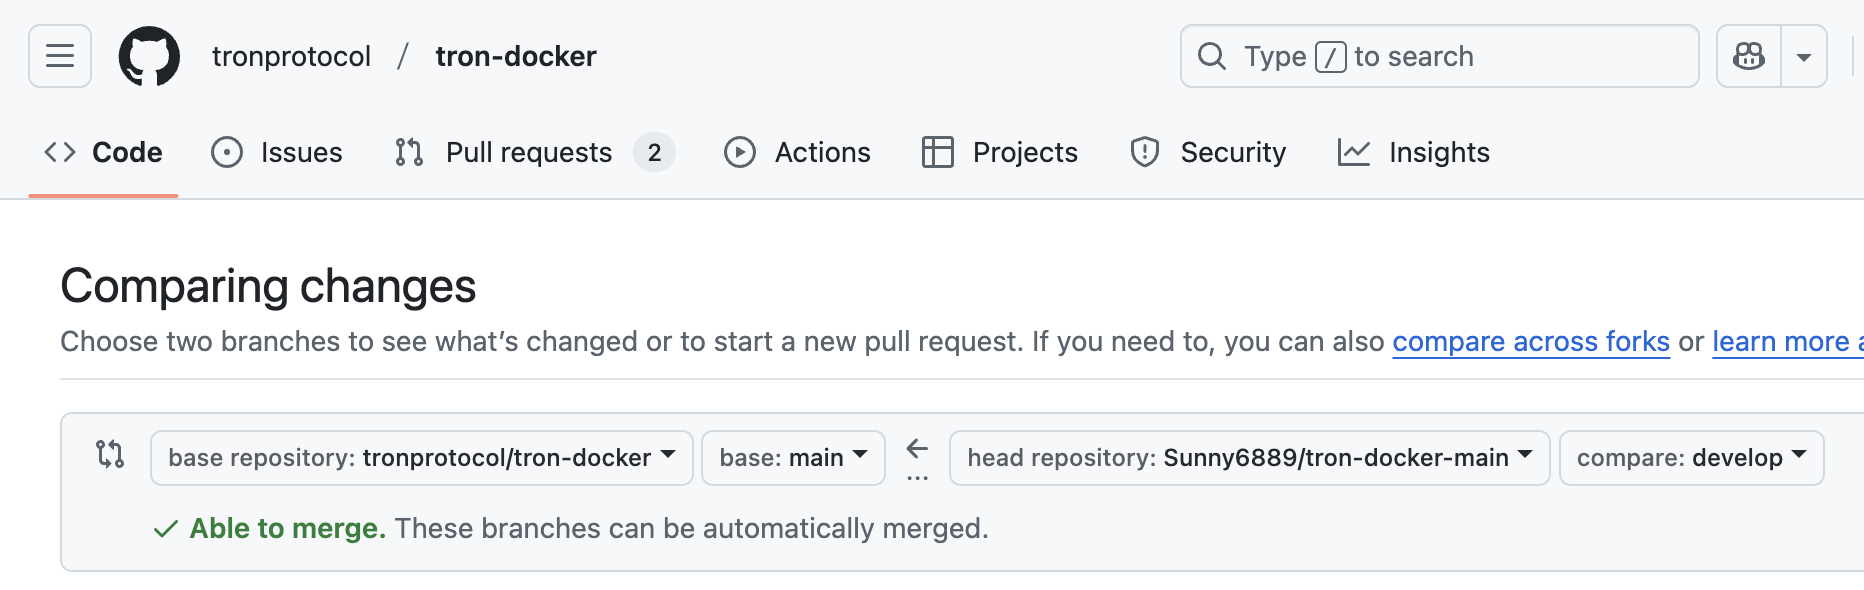
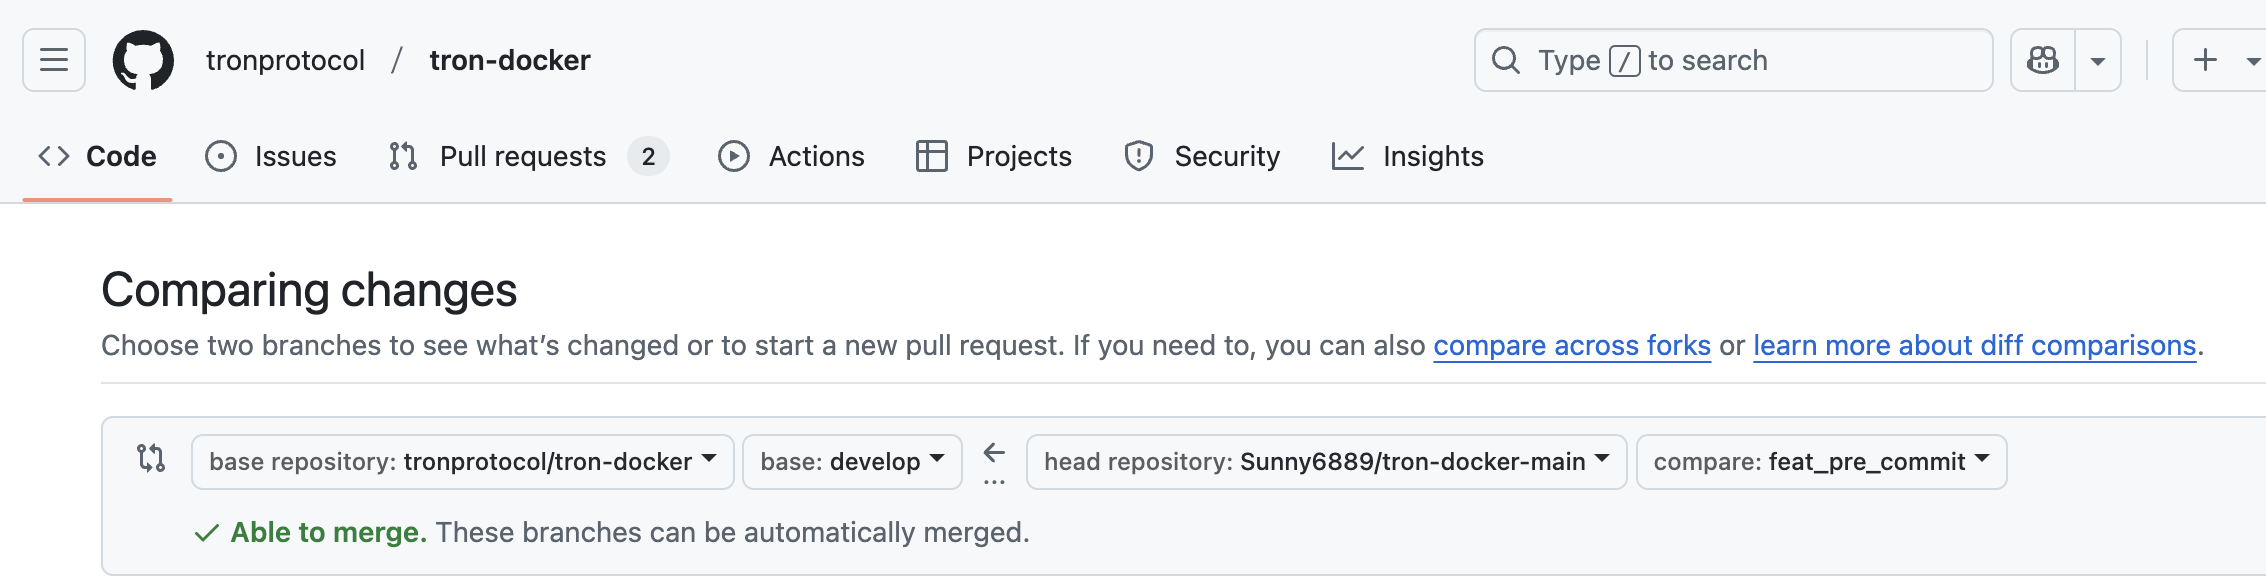
update format

diff --git a/CONTRIBUTING.md b/CONTRIBUTING.md
@@ -1,116 +1,114 @@
 # Contributing
 
-tron-docker is an open-source project designed to facilitate the usage of the TRON network. We understand that there is much left to be desired, and if you see any room for improvement, please let us know. Thank you. All contributed code will be covered by the Apache License v2 of this project.
-
+tron-docker is an open-source project designed to facilitate the usage of the TRON network. We understand that there is much left to be desired, and if you see any room for improvement, please let us know. Thank you. All contributed code will be covered by the [LGPLv3 license](https://github.com/tronprotocol/tron-docker/blob/main/LICENSE) of this project.
 
 Here are some guidelines to get started quickly and easily:
 - [Reporting An Issue](#Reporting-An-Issue)
 - [Working on tron-docker](#Working-on-tron-docker)
     - [Key Branches](#Key-Branches)
-    - [Submitting Code](#Submitting-Code)
-    - [Code Style](#Code-Style)
+    - [Submitting Code Steps](#Submitting-Code-Steps)
     - [Commit Messages](#Commit-Messages)
     - [Branch Naming Conventions](#Branch-Naming-Conventions)
     - [Pull Request Best Practise](#Pull-request-best-practise)
     - [Special Situations And How To Deal With Them](#Special-Situations-And-How-To-Deal-With-Them)
 - [Conduct](#Conduct)
 
+## Before contribution
 
-## Reporting An Issue
+Before making any modifications to tron-docker, it's advisable to discuss your issues or suggestions with the community. They may already be working on similar topics or have them in their roadmap, which can avoid duplicating efforts.
+
+### Ask a question
+Feel free to ask any TRON related question to solve your doubt. Please click **Ask a question** in GitHub Issues, then follow the instructions thereafter.
+
+![image](images/github_issue_ask_a_question.png)
+
+### Reporting an issue
 
 If you're about to raise an issue because you think you've found a problem or bug with tron-docker, please respect the following restrictions:
 
-- Please search for existing or closed issues. Help us keep duplicate issues to a minimum by checking to see if someone has already reported your problem or requested your idea.
+- Please search for [existing issues](https://github.com/tronprotocol/tron-docker/issues?q=is%3Aissue%20state%3Aclosed%20OR%20state%3Aopen). Help us keep duplicate issues to a minimum by checking to see if someone has already reported your problem or requested your idea.
+- Use the [Report a bug](.github/ISSUE_TEMPLATE/report-a-bug.md) template.
 
-- Use the Issue Report Template below.
-    ```
-    1.What did you do?
+### Request a feature
 
-    2.What did you expect to see?
-
-    3.What did you see instead?
-    ```
+If you have any good feature suggestions for tron-docker, community would be very welcome to hear them. Please refer to our [Request a feature](.github/ISSUE_TEMPLATE/request-a-feature.md) template.
 
 
-## Working on tron-docker
+## Contribute to tron-docker
 
 If you’d like to contribute to tron-docker, we recommend that you send a pull request (PR) for the maintainers to review and merge into the main code base, make sure the PR contains a detailed description.
 
 
-
-### Key Branches
-tron-docker only has `master`, `develop`, `release-*`, `feature-*`, and `hotfix-*` branches, which are described below:
+### Key branches
+tron-docker only has `main`, `develop`, `release-*`, `feature-*`, and `hotfix-*` branches, which are described below:
 
 - ``develop`` branch
   The `develop` branch only accept merge request from other forked branches or`release_*` branches. It is not allowed to directly push changes to the `develop` branch. A `release_*` branch has to be pulled from the develop branch when a new build is to be released.
 
-- ``master`` branch
-  `release_*` branches and `hotfix/*` branches should only be merged into the `master` branch when a new build is released.
+- ``main`` branch
+  `release_*` branches and `hotfix/*` branches should only be merged into the `main` branch when a new build is released.
 
 - ``release`` branch
-  `release_*` is a branch pulled from the `develop` branch for release. It should be merged into `master` after a regression test and will be permanently kept in the repository. If a bug is identified in a `release_*` branch, its fixes should be directly merged into the branch. After passing the regression test, the `release_*` branch should be merged back into the `develop` branch. Essentially, a `release_*` branch serves as a snapshot for each release.
+  `release_*` is a branch pulled from the `develop` branch for release. It should be merged into `main` after a regression test and will be permanently kept in the repository. If a bug is identified in a `release_*` branch, its fixes should be directly merged into the branch. After passing the regression test, the `release_*` branch should be merged back into the `develop` branch. Essentially, a `release_*` branch serves as a snapshot for each release.
 
 - ``feature`` branch
   `feature/*` is an important feature branch pulled from the `develop` branch. After the `feature/*` branch is code-complete, it should be merged back to the `develop` branch. The `feature/*` branch is maintainable.
 
 - ``hotfix`` branch
-  It is pulled from the `master` branch and should be merged back into the master branch and the `develop` branch. Only pull requests of the fork repository (pull requests for bug fixes) should be merged into the `hotfix/` branch. `hotfix/` branches are used only for fixing bugs found after release.
+  It is pulled from the `main` branch and should be merged back into the main branch and the `develop` branch. Only pull requests of the fork repository (pull requests for bug fixes) should be merged into the `hotfix/` branch. `hotfix/` branches are used only for fixing bugs found after release.
 
 
-### Submitting Code
+### Submitting code steps
 
-If you want to contribute codes to tron-docker, please follow the following steps:
+If you want to contribute codes to tron-docker, please follow the following steps.
 
-* Fork code repository
-  Fork a new repository from tronprotocol/tron-docker to your personal code repository
+#### Fork then make changes
+Fork a new repository from tronprotocol/tron-docker to your personal code repository, and then edit the code in the your fork repository.
+```
+  git clone https://github.com/yourname/tron-docker.git
+  git remote add upstream https://github.com/tronprotocol/tron-docker.git ("upstream" refers to upstream projects repositories, namely tronprotocol's repositories, and can be named as you like it. We usually call it "upstream" for convenience)
+```
 
-* Edit the code in the fork repository
-    ```
-    git clone https://github.com/yourname/tron-docker.git
+Before developing new features, please synchronize your fork repository with the upstream repository.
+```
+  git fetch upstream
+  git checkout develop
+  git merge upstream/develop --no-ff (Add --no-ff to turn off the default fast merge mode)
+```
 
-    git remote add upstream https://github.com/tronprotocol/tron-docker.git     ("upstream" refers to upstream projects repositories, namely tronprotocol's repositories, and can be named as you like it. We usually call it "upstream" for convenience)
-    ```
-  Before developing new features, please synchronize your fork repository with the upstream repository.
-    ```
-    git fetch upstream
-    git checkout develop
-    git merge upstream/develop --no-ff (Add --no-ff to turn off the default fast merge mode)
-    ```
+Pull a new branch from the **develop** branch of your repository for local development. Please refer to [Branch Naming Conventions](#Branch-Naming-Conventions),
+```
+  git checkout -b feature/branch_name develop
+```
 
-  Pull a new branch from the **develop** branch of your repository for local development. Please refer to [Branch Naming Conventions](#Branch-Naming-Conventions),
-    ```
-    git checkout -b feature/branch_name develop
-    ```
+Write and commit the new code when it is completed. Please refer to [Commit Messages](#Commit-Messages)
+```
+  git add .
+  git commit -m 'commit message'
+```
+Commit the new branch to your personal remote repository
+```
+  git push origin feature/branch_name
+```
 
-  Write and commit the new code when it is completed. Please refer to [Commit Messages](#Commit-Messages)
-     ```
-     git add .
-     git commit -m 'commit message'
-     ```
-  Commit the new branch to your personal remote repository
-     ```
-     git push origin feature/branch_name
-     ```
-* Linting
+#### Linting
 
-  tron-docker CI uses [pre-commit](https://pre-commit.com/) to lint all code within the repo. Add it to your local following the [installation](https://pre-commit.com/#installation). Check [.pre-commit-config.yaml](.pre-commit-config.yaml) for existing validators.
+  tron-docker CI uses [pre-commit](https://pre-commit.com/) to lint all code within the repo. Add it to your local following the [installation](https://pre-commit.com/#installation). Check [.pre-commit-config.yaml](.pre-commit-config-fix.yaml) for existing validators.
 
-* Push code
+#### Push code
 
-  Submit a pull request (PR) from your repository to `tronprotocol/tron-docker`.
-  Please be sure to click on the link in the red box shown below. Select the base branch for tron-docker and the compare branch for your personal fork repository.
-  ![image](images/pr_compare_forks.png)
+Submit a pull request (PR) from your repository to `tronprotocol/tron-docker`. Please be sure to click on the link in the red box shown below. Select the base branch for tron-docker and the compare branch for your personal fork repository.
 
-### Code Style
-Beside the above linting using pre-commit before submit, `Sonar`-scanner and `Travis CI` continuous integration scanner will be automatically triggered when a pull request has been submitted.
-When a PR passes all the checks, the **tron-docker** maintainers will then review the PR and offer feedback and modifications when necessary. Once adopted, the PR will be closed and merged into the `develop` branch.
+![image](images/pr_compare_forks.png)
+
+The tron-docker maintainers will then review the PR and offer feedback and modifications when necessary. Once adopted, the PR will be closed and merged into the `develop` branch.
 
 We are glad to receive your pull requests and will try our best to review them as soon as we can. Any pull request is welcome, even if it is for a typo.
 
 Please do not be discouraged if your pull request is not accepted, as it may be an oversight. Please explain your code as detailed as possible to make it easier to understand.
 
 
-### Commit Messages
+### Commit messages
 
 Commit messages should follow the rule below with less than 50 characters in length. We provide a template corresponding instructions.
 
@@ -157,9 +155,9 @@ Closes #1234
 If the purpose of this submission is to modify one issue, you need to refer to the issue in the footer, starting with the keyword Closes, such as `Closes #1234`,if multiple bugs have been modified, separate them with commas,such as `Closes #123, #245, #992`.
 
 
-### Branch Naming Conventions
+### Branch naming conventions
 
-1. Always name the `master` branch and `develop` branch as "master" and "develop".
+1. Always name the `main` branch and `develop` branch as "main" and "develop".
 2. Name the `release_*` branch using version numbers, which are assigned by the project lead (e.g., Odyssey-v3.1.3, 3.1.3, etc.).
 3. Use `hotfix/` as the prefix of the `hotfix` branch, briefly describe the bug in the name, and connect words with underline (e.g., hotfix/typo, hotfix/null_point_exception, etc.).
 4. Use `feature/` as the prefix of the `feature` branch, briefly describe the feature in the name, and connect words with underline (e.g., feature/new_resource_model, etc.).
@@ -176,7 +174,7 @@ If the purpose of this submission is to modify one issue, you need to refer to t
 
 
 
-### Special Situations And How To Deal With Them
+### Special situations and how to deal with them
 As a reviewer, you may find yourself in one of the situations below. Here’s how to deal with those:
 
 The author doesn’t follow up: ping them after a while (i.e. after a few days). If there is no further response, close the PR or complete the work yourself.

diff --git a/.github/ISSUE_TEMPLATE/ask-a-question.md b/.github/ISSUE_TEMPLATE/ask-a-question.md
@@ -6,4 +6,4 @@ labels: 'type:docs'
 assignees: ''
 
 ---
-This should only be used in very rare cases e.g. if you are not 100% sure if something is a bug or asking a question that leads to improving the documentation. For general questions please use [Discord](https://discord.gg/cGKSsRVCGm) or [Telegram](https://t.me/TronOfficialDevelopersGroupEn).
+If you are not 100% sure if something is a bug or asking a question that leads to improving the documentation. For general questions please use [Discord](https://discord.gg/cGKSsRVCGm) or [Telegram](https://t.me/TronOfficialDevelopersGroupEn).
